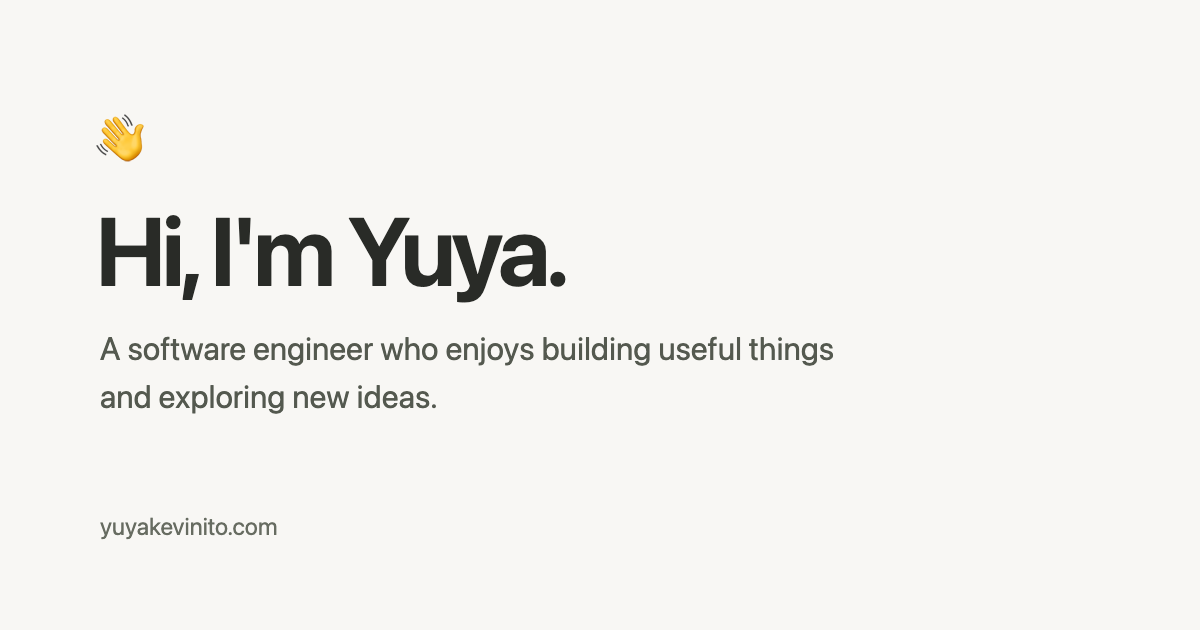
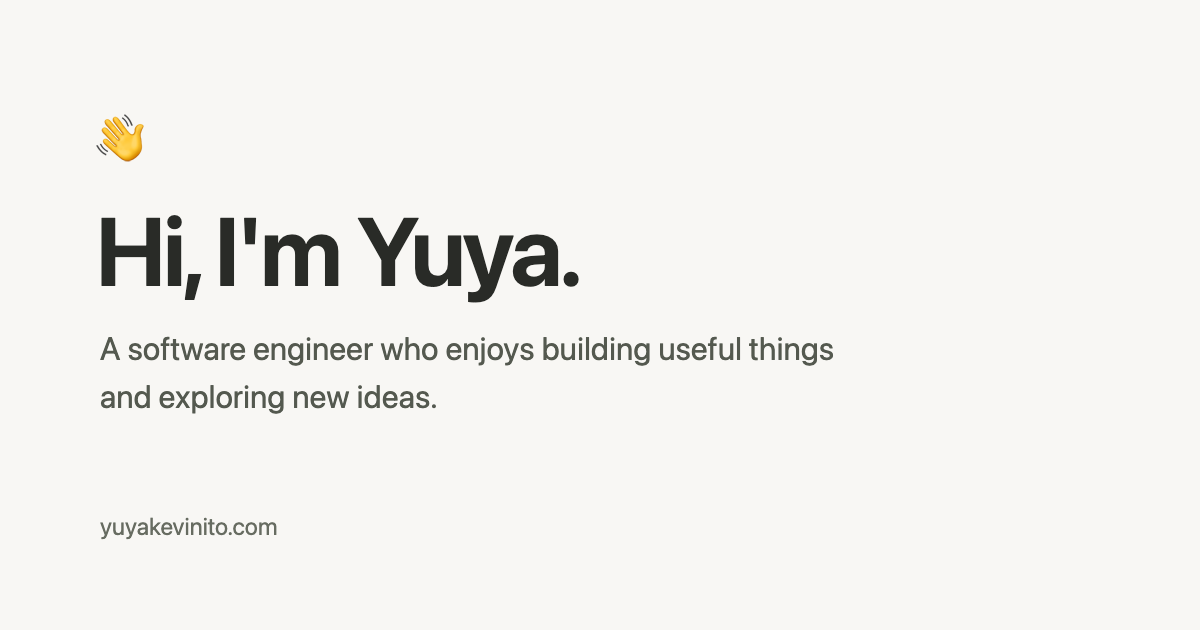
Link the lab from the introduction; loosen headline tracking (#1)
* Link the lab from the introduction; loosen headline tracking

A plain Lab link after LinkedIn opens https://lab.yuyakevinito.com/ in the
same tab. It is not a product, so it stays out of the projects list. The h1
tracking goes from -0.065em to -0.025em (About heading -0.04em to -0.02em)
so the large bold headline stays readable.

Copilot-Session: a47df885-5027-49c8-bc0c-59cc626297f0

* Match the social card headline to the new homepage tracking

Re-rendered public/social-card.png (favicons unchanged). README now says to
update the card whenever the homepage's look changes.

Copilot-Session: a47df885-5027-49c8-bc0c-59cc626297f0

---------

Copilot-Session: a47df885-5027-49c8-bc0c-59cc626297f0

Changed region(s): [[0.1233, 0.3317, 0.4933, 0.4825]]

diff --git a/public/styles.css b/public/styles.css
@@ -36,7 +36,7 @@ h1 {
   margin: 0;
   font-size: clamp(3rem, 9vw, 5.5rem);
   font-weight: 650;
-  letter-spacing: -0.065em;
+  letter-spacing: -0.025em;
   line-height: 1.12;
   text-wrap: balance;
 }
@@ -210,7 +210,7 @@ a:focus-visible {
 
 .about-heading {
   font-size: clamp(3rem, 8vw, 4.25rem);
-  letter-spacing: -0.04em;
+  letter-spacing: -0.02em;
 }
 
 .about-intro {

diff --git a/public/index.html b/public/index.html
@@ -66,6 +66,7 @@
           </svg>
         </a>
         <a class="profile-link" href="https://www.linkedin.com/in/yuyaito/" rel="me">LinkedIn</a>
+        <a class="text-link" href="https://lab.yuyakevinito.com/">Lab</a>
       </nav>
       <section class="projects" aria-labelledby="projects-heading">
         <div class="projects-header">

diff --git a/README.md b/README.md
@@ -98,6 +98,9 @@ That is distinct from the deployment token used by the builds themselves.
 
 - The LinkedIn link beside the introduction uses the profile published in the
   `YIPG` GitHub account's social links: <https://www.linkedin.com/in/yuyaito/>.
+- After LinkedIn, a plain "Lab" link opens <https://lab.yuyakevinito.com/> in the same tab: experiments and notes,
+  deployed from a separate repository. The lab is not indexed (`noindex`), and its `/private/` area requires a
+  Cloudflare Access sign-in. It is not a product, so it stays out of the projects list and its link checks.
 - The introduction also links to `/about/`, a concise professional profile in
   `public/about/index.html`: a short introduction, reverse-chronological
   experience, and education. Both pages share `public/styles.css`.
@@ -150,7 +153,9 @@ Cloudflare may prepend its managed robots policy. Check the live file when
 changing crawler settings. The site does not disable Cloudflare bot protections.
 
 The social card is a typographic adaptation of the existing homepage, not
-stock or AI-generated artwork. Its editable source is `design/social-card.svg`;
+stock or AI-generated artwork. Whenever the homepage's look changes (headline,
+typography, colors, spacing or copy shown on the card), update `design/social-card.svg` to match in the same
+change and re-render the PNGs; its headline uses the homepage's h1 tracking in px (`letter-spacing` em x 96). Its editable source is `design/social-card.svg`;
 the icon source is `public/favicon.svg`. Both retain the approved colors,
 system typography, and waving-hand motif. Regenerate the committed PNGs with:
 
